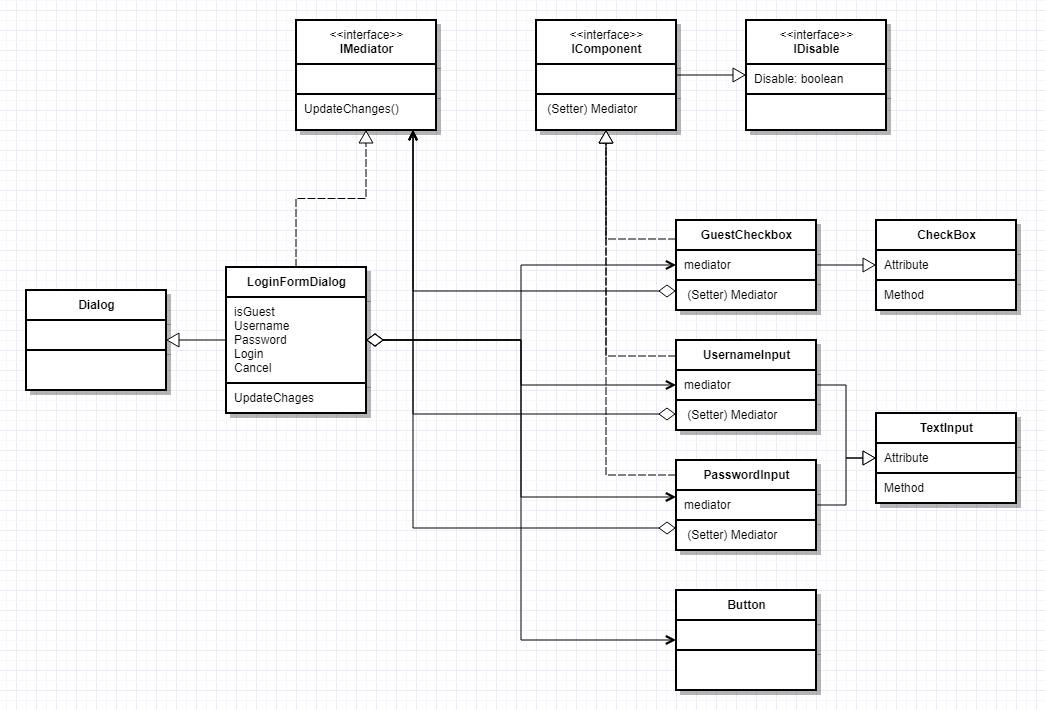
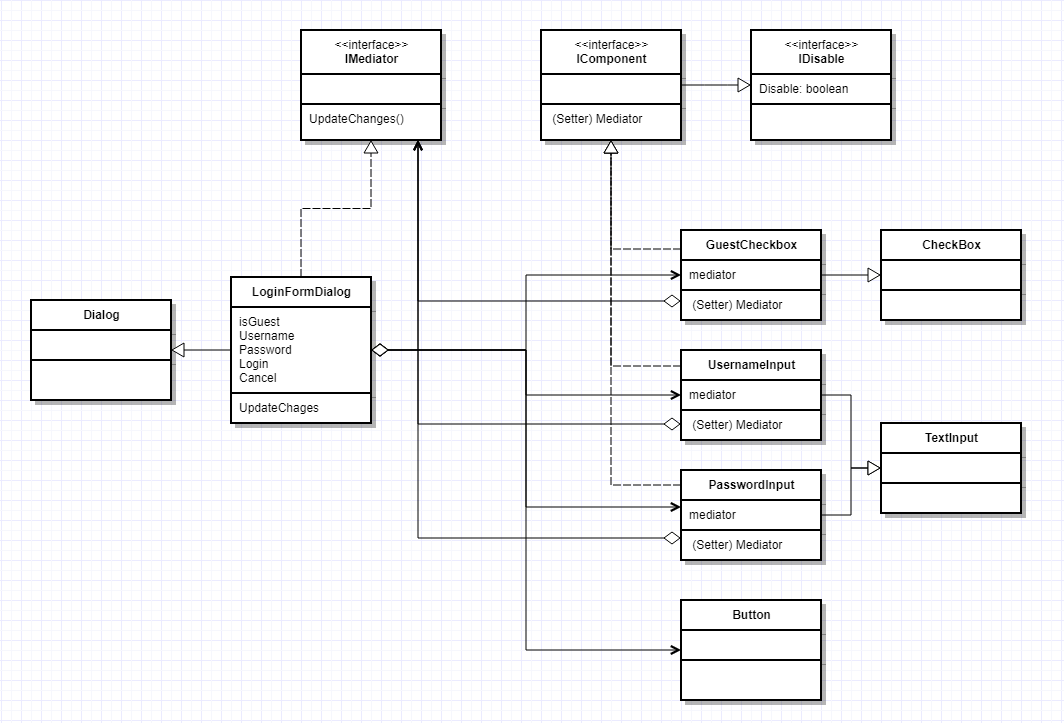
finished first writing

Changed region(s): [[0.0, 0.031, 0.9799, 0.9915], [0.2756, 0.2789, 0.3368, 0.3099], [0.6431, 0.8056, 0.6737, 0.8366]]

diff --git a/DesignPattern.NET/Mediator/Solution/LoginFormDialog.cs b/DesignPattern.NET/Mediator/Solution/LoginFormDialog.cs
@@ -2,17 +2,7 @@
 
 namespace DesignPattern.NET.Mediator.Solution
 {
-    interface IMediator
-    {
-        void UpdateChanges();
-    }
-
-    interface IComponent : IDisable
-    {
-        IMediator Mediator { get; set; }
-    }
-
-class LoginFormDialog : IDialog, IMediator
+    class LoginFormDialog : IDialog, IMediator
 {
     private CheckBox IsGuest { get; }
     private TextInput Username { get; }
@@ -36,38 +26,4 @@ class LoginFormDialog : IDialog, IMediator
         Login.Disable = !string.IsNullOrEmpty(Username.Value) && !string.IsNullOrEmpty(Password.Value);
     }
 }
-
-    class GuestCheckBox : CheckBox, IComponent
-    {
-        public IMediator Mediator { get; set; }
-
-        public GuestCheckBox()
-        {
-            OnClick += () => Mediator?.UpdateChanges();
-        }
-    }
-
-    class UsernameInput : TextInput, IComponent
-    {
-        public IMediator Mediator { get; set; }
-
-        public UsernameInput()
-        {
-            OnChange += () => Mediator?.UpdateChanges();
-        }
-    }
-
-    class PasswordInput : TextInput, IComponent
-    {
-        public IMediator Mediator { get; set; }
-
-        public PasswordInput()
-        {
-            OnChange += () => Mediator?.UpdateChanges();
-        }
-    }
-
-    class LoginButton : Button
-    {
-    }
 }

diff --git a/DesignPattern.NET/Mediator/Solution/PasswordInput.cs b/DesignPattern.NET/Mediator/Solution/PasswordInput.cs
@@ -1,0 +1,14 @@
+using DesignPattern.NET.Mediator.Context;
+
+namespace DesignPattern.NET.Mediator.Solution
+{
+    class PasswordInput : TextInput, IComponent
+    {
+        public IMediator Mediator { get; set; }
+
+        public PasswordInput()
+        {
+            OnChange += () => Mediator?.UpdateChanges();
+        }
+    }
+}

diff --git a/DesignPattern.NET/Mediator/Solution/UsernameInput.cs b/DesignPattern.NET/Mediator/Solution/UsernameInput.cs
@@ -1,0 +1,14 @@
+using DesignPattern.NET.Mediator.Context;
+
+namespace DesignPattern.NET.Mediator.Solution
+{
+    class UsernameInput : TextInput, IComponent
+    {
+        public IMediator Mediator { get; set; }
+
+        public UsernameInput()
+        {
+            OnChange += () => Mediator?.UpdateChanges();
+        }
+    }
+}

diff --git a/DesignPattern.NET/Mediator/Solution/GuestCheckBox.cs b/DesignPattern.NET/Mediator/Solution/GuestCheckBox.cs
@@ -1,0 +1,14 @@
+using DesignPattern.NET.Mediator.Context;
+
+namespace DesignPattern.NET.Mediator.Solution
+{
+    class GuestCheckBox : CheckBox, IComponent
+    {
+        public IMediator Mediator { get; set; }
+
+        public GuestCheckBox()
+        {
+            OnClick += () => Mediator?.UpdateChanges();
+        }
+    }
+}

diff --git a/DesignPattern.NET/Mediator/Solution/IComponent.cs b/DesignPattern.NET/Mediator/Solution/IComponent.cs
@@ -1,0 +1,9 @@
+using DesignPattern.NET.Mediator.Context;
+
+namespace DesignPattern.NET.Mediator.Solution
+{
+    interface IComponent : IDisable
+    {
+        IMediator Mediator { get; set; }
+    }
+}

diff --git a/DesignPattern.NET/Mediator/Solution/LoginButton.cs b/DesignPattern.NET/Mediator/Solution/LoginButton.cs
@@ -1,0 +1,8 @@
+using DesignPattern.NET.Mediator.Context;
+
+namespace DesignPattern.NET.Mediator.Solution
+{
+    class LoginButton : Button
+    {
+    }
+}

diff --git a/DesignPattern.NET/Mediator/Solution/IMediator.cs b/DesignPattern.NET/Mediator/Solution/IMediator.cs
@@ -1,0 +1,7 @@
+namespace DesignPattern.NET.Mediator.Solution
+{
+    interface IMediator
+    {
+        void UpdateChanges();
+    }
+}

diff --git a/DesignPattern.NET/Mediator/MediatorPattern.md b/DesignPattern.NET/Mediator/MediatorPattern.md
@@ -101,9 +101,9 @@ class UsernameInput : TextInput
 
 연관관계가 높은 이유에 대해서 생각해봅시다. 이는 각 컴포넌트에서 **요구사항에
 따른 관계 컴포넌트를 직접 제어함**에서 발생합니다. 조건에 따른 제어로직을 한
-곳으로 모아 관리할 순 없을까요? 그리고 그 역할을 맡을 중재자 컴포넌트는 무엇일까요?
+곳으로 모아 관리할 순 없을까요? 그리고 그 역할을 맡을 중개자 컴포넌트는 무엇일까요?
 
-`LoginFormDialog`는 모든 컴포넌트에 접근이 가능하여 중재자 역할로 적합합니다.
+`LoginFormDialog`는 모든 컴포넌트에 접근이 가능하여 중개자 역할로 적합합니다.
 
 ```csharp
 class LoginFormDialog : IDialog
@@ -137,6 +137,12 @@ class LoginFormDialog : IDialog
 따라서 각 컴포넌트는 `LoginFormDialog`에 대해서 알고 있어야합니다.
 
 ```csharp
+{
+interface IComponent : IDisable
+{
+    LoginFormDialog Dialog { get; set; }
+}
+
 class UsernameInput : TextInput, IComponent
 {
     public LoginFormDialog Dialog { get; set; }
@@ -150,7 +156,7 @@ class UsernameInput : TextInput, IComponent
 
 더불어 `LoginInput`이나 `PasswordInput`은 서비스에서 정한 규칙에 따른 검증 로직을
 가지고 있고 이는 `Dialog` 뿐만 아니라 `MainView`, `OAuthPopup`등에서도 쓰일 수
-있으므로 중재자 그 자체를 인터페이스로 변환해 느슨(Loose Couple)하게 만들어 줍시다.
+있으므로 중개자 그 자체를 인터페이스로 변환해 느슨(Loose Couple)하게 만들어 줍시다.
 
 ```csharp
 interface IMediator
@@ -174,3 +180,67 @@ class UsernameInput : TextInput, IComponent
 ![solution](Images/SolutionERD.png)
 
 ## Summery
+
+한 집합에 속해있는 객체의 상호작용을 캡슐화하는 객체를 정의합니다. 객체들이
+직접 서로를 참조하지 않도록 하여 객체 사이의 느슨한 결합(loose coupling)을
+촉진시키며, 개발자가 객체의 상호작용을 독립적으로 다양화시킬 수 있게 만듭니다.
+
+### 참여자
+
+![pattern](Images/pattern.png)
+
+- 중개자(Mediator) : 객체와 교류하는 데 필요한 인터페이스
+- 구체 중개자(Concrete Mediator) : 객체간 조화를 이뤄서 협력행동을 구현하며, 자신이 맡을 동료를 파악하고 있다.
+- 동료(Colleague) : Mediator와 통신을 실행할 인터페이스, 통신의 규약(API)를 결정한다.
+- 구체 동료(Concrete Colleague) : 다른 객체와 통신을 하는 대상, 중개자를 알고 있으며 통신은 중개자를 통해 진행한다.
+
+### 결과
+
+- sub-classing이 제한됩니다. `LoginFormDiagram`은 결과적으로 각각의 컴포넌트 클래스들이 통신하기 위한 클래스이므로 재사용이 어렵습니다. 굳이 재사용하겠다면 이를 상속받은 후 기능을 오버라이딩 시켜서 사용할 수 있습니다.
+- Colleague 객체간의 종속성을 줄입니다. 기존에는 연관관계 컴포넌트를 모두 알아야 했다면 패턴이 적용된 이후에는 Mediator 만 바라보면 됩니다. 또한 이를 재사용하기도 쉬워집니다.
+- 객체 프로토콜이 단순화됩니다.
+- 협력 방법을 추상화합니다.
+- 통제가 집중화됩니다. 복잡한 모든 것이 하나로 합쳐져 좀 더 직관적이고 빠르게 파악할 수 있게 되었습니다.
+
+### Q&A
+
+#### `Coleague`가 `IComponent`로 인터페이스인 이유는 무엇인가요?
+
+첫번째로 C#은 다중 상속을 허용하지 않습니다. 보통 GUI프로그래밍에서는 프레임워크에서
+제공하는 기본 클래스들이 있으며 이를 상속하는 형태로 재사용 컴포넌트를 만듭니다.
+`Password`인풋의 경우 다양한 곳에서 쓰기 때문에 서비스의 암호 유효성 검증 로직은
+이 곳에 있어야합니다. 만약 Abstract Class로 동료(Colleague) 클래스를 제공하고 싶다면
+아래와 같은 다이어그램과 같이 해결할 수 있습니다. 하지만 작업 비용 대비 큰 이득이 없으며
+오히려 복잡성만 증가시키고 있습니다. 특히 `Component`클래스의 종류가 많은 경우
+의미 없는 추상 클래스의 개수가 늘어나므로 추천하는 방법은 아닙니다.
+
+![cs-pattern](Images/cs_pattern.png)
+
+두 번째로 `Property`로 어느정도 속성 명시를 명확하게 할 수 있습니다. 물론 정확한
+속성을 의미하지 않습니다만, 상속 후 기본 구현만으로도 Auto Generated Field가
+생성되므로 코드 양이 많이 늘어나지 않습니다.
+
+#### `IComponent`에서 통신을 위한 API 정의는 어떤 것인가요?
+
+별도 메서드로 뺄수 있지만 기본적으로 비활성화(Disable) 기능 기본으로 제공되는
+컴포넌트(위젯) 클래스들이 구현하고 있는 경우가 많기 때문에 `IDisable` 인터페이스
+그 자체를 `Mediator`와 통신을 위한 API로 사용하기 때문에 달리 추가적으로 정의할
+필요는 없었습니다.
+
+#### 중개자 인터페이스는 필수인가요?
+
+아닙니다. 중개자는 보통 재사용기 불가능하거나 어렵기 때문에 중개자가 아닌 구체
+클래스를 동료 클래스에 제공하셔도 됩니다. 하지만 보통 중개자 클래스는 순수하지 않고
+외부와의 통신 등의 테스트하기 어렵게하는 로직이 있기 때문에 인터페이스를 만드셔서
+가짜 객체를 제공할 때에는 편하실 수 있습니다.
+
+### C#에서의 적용
+
+개발자는 대부분의 케이스에서 중개자 개념을 적용하고 있습니다. 전혀 대단한 패턴이
+아닙니다. 또한 위 GoF 다이어그램에서 `createComponent`는 사실 생성자로 합쳐질
+수 있습니다. 자바와는 다르게 `Intializer`와 `event`, 람다 익스프레션으로 충분히
+코드를 짧게 작성할 수 있기 때문에 흐름에 영향을 주지 않습니다. 또한 인터페이스로
+정의하게되면 `private`키워드로 구현할 수 없기 때문에 동료 클래스의 생성 로직을
+외부에 노출시키게 됩니다. 그리고 컴포넌트(동료)가 재사용되지 않는다고 가정하면
+중개자에게 어떠한 이벤트에서 `UpdateChanges`를 실행할지에 대해 위임시켜도 나쁘지
+않습니다.
